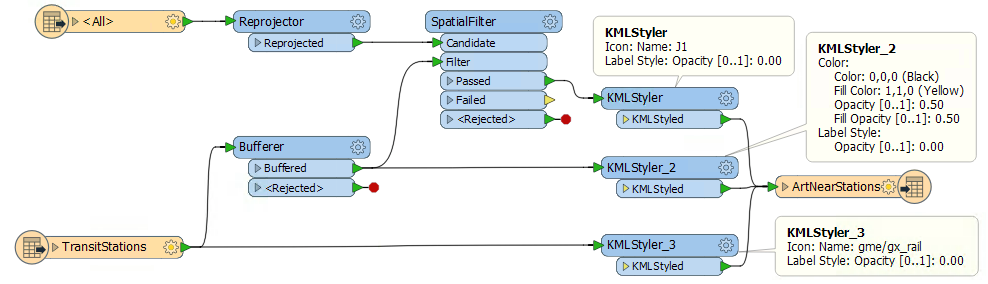
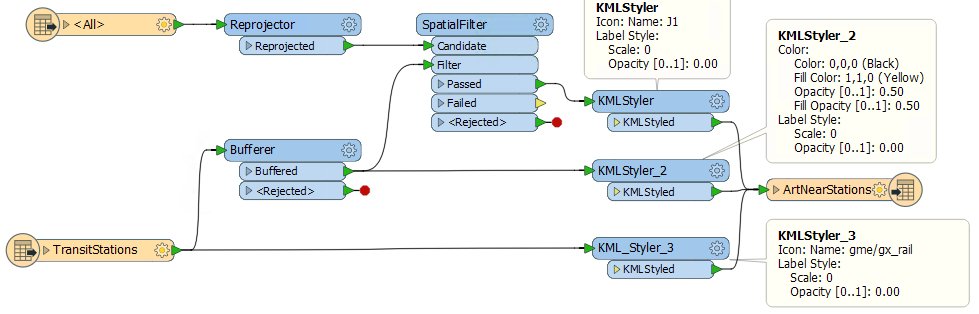
updates with suggested edits from Sam

Changed region(s): [[0.0, 0.0, 1.0, 0.9859]]

diff --git a/DesktopAdvanced0Introduction/0.Exercise1.md b/DesktopAdvanced0Introduction/0.Exercise1.md
@@ -195,6 +195,8 @@ In the ArtNearTransit parameters, go to the User Attributes tab then change the 
 
 ![](./Images/Img0.214.Ex1.GoogleEarthWithoutStyle.png)
 
+**NB:** _Even though we reprojected the data to UTM83-10, Google KMLs are only in Latitude and Longitude coordinate systems (LL84) so the writer will automatically change this for us. If you want you can reproject the Geodatabase to LL84 instead of reprojecting the Excel file to UTM83-10._
+
 ---
 
 <!--Advanced Exercise Section-->
@@ -223,11 +225,11 @@ The output of the Google KML isn't the prettiest, it just uses default icons. Th
 ![](./Images/Img0.215.Ex1.AdvancedWorkspace.png)
 
 <br>**8) Style Output KML**
-<br>Add a KMLStyler transformer between the SpatialFilter:Passed output port and the ArtNearTransit Writer. In the parameters under Icon > Name, click the ellipsis then select the icon P5. Then for Label Style set the Opacity to 0. 
+<br>Add a KMLStyler transformer between the SpatialFilter:Passed output port and the ArtNearTransit Writer. In the parameters under Icon > Name, click the ellipsis then select the icon P5. Then for Label Style set the Scale to 0 and the Opacity to 0, this will hide the labels. 
 
-Between the Bufferer and the ArtNearTransit Writer add another KMLStyler. In the parameters set the Color to Black and the Fill Color to Yellow. Set both Opacity and Fill Opacity to 0.5. Then for Label Style set the Opacity to 0. 
+Between the Bufferer and the ArtNearTransit Writer add another KMLStyler. In the parameters set the Color to Black and the Fill Color to Yellow. Set both Opacity and Fill Opacity to 0.5. Then for Label Style set the Scale to 0 and the Opacity to 0. 
 
-Finally, add a third KMLStyler to the canvas. This time connect it to the TransitStations:Output port and the ArtNearTransit:Input port. In the parameters Icon > Name, click on the ellipsis then double click on the first folder icon to browse for more icons. Then select the gx_rail icon and click OK. Also, set the Opacity for Label Style to 0. 
+Finally, add a third KMLStyler to the canvas. This time connect it to the TransitStations:Output port and the ArtNearTransit:Input port. In the parameters Icon > Name, click on the ellipsis then double click on the first folder icon to browse for more icons. Then select the gx_rail icon and click OK. Also, set the Scale and Opacity for Label Style to 0. 
 
 ![](./Images/Img0.216.Ex1.FinalAdvancedWorkspace.png)
 
